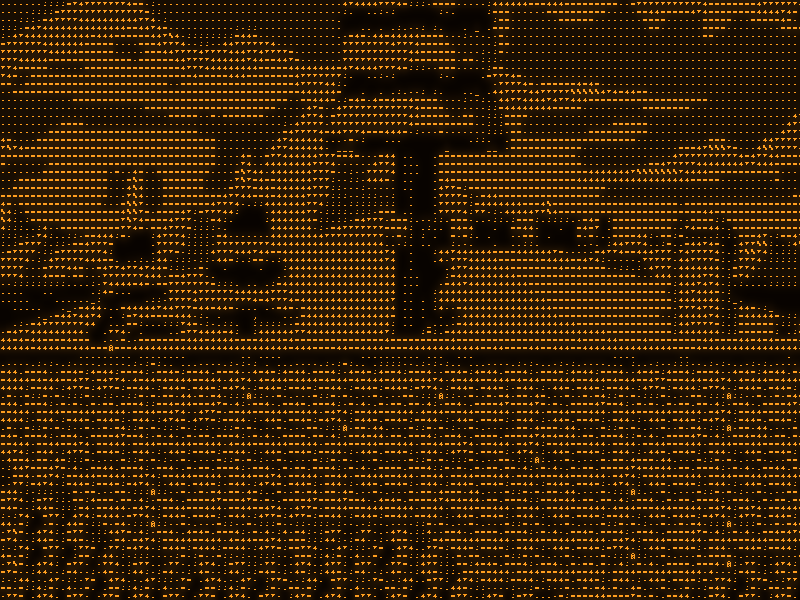
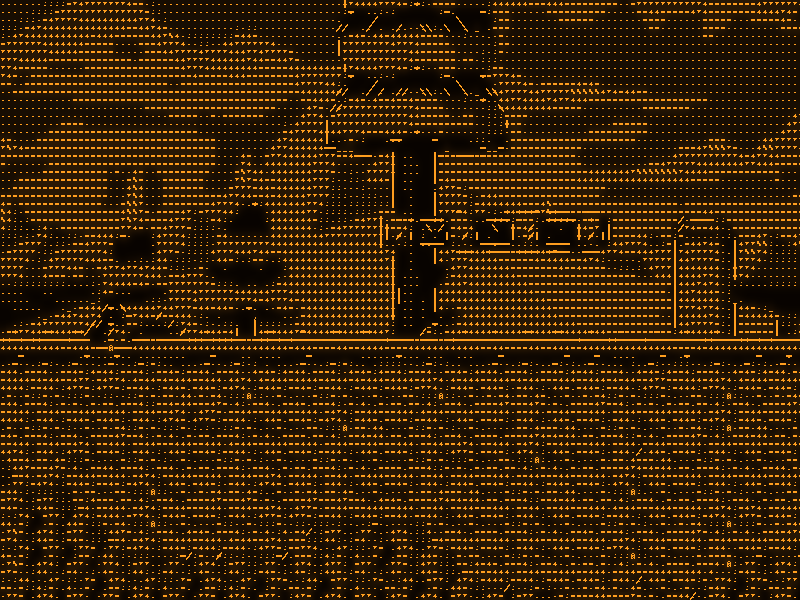
feat: detect contours in the displayed tone and with more sensitive DoG settings; remove the Blueprint style (detail at depth, step 5)

diff --git a/src/config/builtin_presets.cpp b/src/config/builtin_presets.cpp
@@ -1,6 +1,5 @@
 #include <glyphshift/config/presets.hpp>
 
-#include "blueprint.hpp"
 #include "chalk.hpp"
 #include "comic.hpp"
 #include "crt.hpp"
@@ -13,7 +12,7 @@
 namespace glyphshift {
 std::span<const BuiltinPreset> builtin_presets() noexcept {
     // Light-paper styles first, then dark-paper styles.
-    static constexpr std::array<BuiltinPreset, 9> styles{{
+    static constexpr std::array<BuiltinPreset, 8> styles{{
         {"art-comic",
             "Comic",
             "Bold scene-colored inks over a vivid watercolor wash.",
@@ -31,10 +30,6 @@ std::span<const BuiltinPreset> builtin_presets() noexcept {
             "Ink & Edges",
             "Crisp white letters and line art on black; made for dark games.",
             included::ink_edges},
-        {"art-blueprint",
-            "Blueprint",
-            "Cyan outlines on navy paper; no surface fill.",
-            included::blueprint},
         {"art-midnight",
             "Midnight",
             "Terminal ASCII in saturated scene colors on a near-black sky.",

diff --git a/tests/unit/presets_test.cpp b/tests/unit/presets_test.cpp
@@ -117,8 +117,9 @@ int main(int argc, char** argv) {
         PresetStore first(path, "game-a"), other(path, "game-b");
         std::string error;
         Settings actual;
-        check(builtin_presets().size() == 9 && !builtin_preset("not-included"),
-            "nine included styles with explicit lookup");
+        check(builtin_presets().size() == 8 && !builtin_preset("not-included") &&
+                  !builtin_preset("art-blueprint"),
+            "eight included styles with explicit lookup");
         for (const auto& preset : builtin_presets()) {
             check(first.load(preset.name, actual, error) && error.empty(),
                 "included styles load without installed files");

diff --git a/tests/smoke/editor_apps.py b/tests/smoke/editor_apps.py
@@ -150,7 +150,7 @@ def main():
                         control.click(100, 151 + (position-1)*23)
                     time.sleep(.35)
                     assert (profile_dir / 'active').read_text() == expected + '\n', (expected, (profile_dir / 'active').read_text())
-                names = ['art-comic', 'art-sepia', 'art-newsprint', 'art-chalk', 'art-ink-edges', 'art-blueprint',
+                names = ['art-comic', 'art-sepia', 'art-newsprint', 'art-chalk', 'art-ink-edges',
                          'art-midnight', 'art-crt', 'art-digital-rain']
                 seen = []
                 for index, name in enumerate(names, 1):

diff --git a/tools/record_demo.py b/tools/record_demo.py
@@ -31,7 +31,7 @@ parser.add_argument('--fps', type=int, default=12)
 args = parser.parse_args()
 presets = pathlib.Path(__file__).resolve().parents[1] / 'presets'
 # (seconds from the start, style config or None for the original)
-timeline = [(0, None), (3, 'art-comic'), (6.5, 'art-newsprint'), (10, 'art-blueprint')]
+timeline = [(0, None), (3, 'art-comic'), (6.5, 'art-newsprint'), (10, 'art-digital-rain')]
 length = 13.5
 
 x = X11()

diff --git a/tests/smoke/editor_apps_win32.py b/tests/smoke/editor_apps_win32.py
@@ -133,7 +133,7 @@ try:
     profile_dir = out / 'config/glyphshift/profiles' / ('editor-' + app)
     if args.presets:
         names = ['art-comic', 'art-sepia', 'art-newsprint', 'art-chalk', 'art-ink-edges',
-                 'art-blueprint', 'art-midnight', 'art-crt', 'art-digital-rain']
+                 'art-midnight', 'art-crt', 'art-digital-rain']
 
         def choose(position, expected):
             click(140, 95)

diff --git a/presets/README.md b/presets/README.md
@@ -15,12 +15,11 @@ dark-paper styles.
 | [art-newsprint.conf](art-newsprint.conf) | Black ink, warm white paper, letter shading and ASCII outline silhouettes. | 6×8 | [Image](../docs/presets/art-newsprint.png) |
 | [art-chalk.conf](art-chalk.conf) | Chalk drawing on a dark green board. | 6×8 | [Image](../docs/presets/art-chalk.png) |
 | [art-ink-edges.conf](art-ink-edges.conf) | Crisp white letters and line art on black. | 6×8 | [Image](../docs/presets/art-ink-edges.png) |
-| [art-blueprint.conf](art-blueprint.conf) | Cyan directional outlines on navy paper, with surface fill disabled. | 6×10 | [Image](../docs/presets/art-blueprint.png) |
 | [art-midnight.conf](art-midnight.conf) | Classic terminal ASCII in saturated scene colors on a near-black sky. | 6×8 | [Image](../docs/presets/art-midnight.png) |
 | [art-crt.conf](art-crt.conf) | Amber CRT phosphor letters with a warm glow. | 6×8 | [Image](../docs/presets/art-crt.png) |
 | [art-digital-rain.conf](art-digital-rain.conf) | Glowing green binary digits on black. | 6×8 | [Image](../docs/presets/art-digital-rain.png) |
 
-![Nine styles rendered from the SuperTux frame](../docs/presets/overview.png)
+![Eight styles rendered from the SuperTux frame](../docs/presets/overview.png)
 
 These are GPU previews of the same [captured frame](../docs/illustration-original.png),
 not live gameplay tests, rendered with **Local contrast** at its default of 0.5
@@ -31,7 +30,7 @@ synthetic stand-in for a dark game.
 Every style uses **Auto exposure**, which lifts dark scenes and tones bright
 ones down, small 6×8 cells for detail, and sensitive contours, so the same
 style works on a bright 2D game and a dark 3D one (they were tuned on SuperTux
-and on ELDEN RING). The dark-paper styles (Chalk, Ink & Edges, Blueprint,
+and on ELDEN RING). The dark-paper styles (Chalk, Ink & Edges,
 Midnight, CRT, Digital rain) suit dark 3D games best. The light-paper styles
 (Comic, Sepia, Newsprint) are at their best in bright games; in a dark scene
 most cells take ink and the drawing turns dense. For larger, easier-to-read
@@ -40,7 +39,7 @@ characters, raise the cell size in the editor.
 ## Choose directly in the overlay
 
 Restart the application through the rebuilt launcher to load the updated shared
-libraries. Press **Insert**, open **Preset**, and choose any of the nine names
+libraries. Press **Insert**, open **Preset**, and choose any of the eight names
 under **Included styles**. The running scene updates immediately; hover a name
 for a short description. Your own saved presets appear under **Saved presets**.
 No file copying or additional installation is required. Press **F10** for the

diff --git a/README.md b/README.md
@@ -11,7 +11,8 @@ it, and each game keeps its own style.
 ![SuperTux's title screen, then GlyphShift attached on top of it, switching between the Comic, Newsprint and Blueprint styles](docs/demo.webp)
 
 *Native SuperTux running on its own; the capture overlay is attached to its
-window and switches styles live (Comic, Newsprint, Blueprint). Recorded with
+window and switches styles live (Comic, Newsprint, and Blueprint, a style since
+removed). Recorded with
 `tools/record_demo.py`.*
 
 ## Why it is not another ASCII filter
@@ -28,7 +29,7 @@ text. GlyphShift takes neither route.
 | Attaching | Installed before the game starts. | A hotkey over a game that is already running; another press detaches it. |
 | Characters | A short built-in brightness ramp. | Real glyphs rasterized from any installed TTF/OTF font: ASCII, blocks, Braille or up to 256 Unicode characters of your choice, each kept at its typographic place. |
 | Which character goes where | By brightness. | By shape: each cell's 4×4 light/dark layout is matched against the font's glyphs, and real outlines become `/ \ \| _ -` strokes, so silhouettes survive. |
-| Color | Usually monochrome or the scene's color. | Art direction: scene-colored ink on dark or light paper, a watercolor wash, glow and ink bleed, nine ready styles. |
+| Color | Usually monochrome or the scene's color. | Art direction: scene-colored ink on dark or light paper, a watercolor wash, glow and ink bleed, eight ready styles. |
 | Motion | Glyphs flicker as noise and light change. | Temporal stability keeps a cell's glyph while it still fits; an optional grid anchored to the world travels with a scrolling camera. |
 | Editing | Configuration files or the injected menu. | An editor over the game (Insert), saved per game; F10 compares with the original. |
 
@@ -296,7 +297,7 @@ SuperTux through Proton, attached with the hotkey.
 ## Choose a starting style
 
 Try the [ready-to-use style collection](presets/README.md): Comic, Sepia,
-Newsprint, Chalk, Ink & Edges, Blueprint, Midnight, CRT and Digital rain. Each
+Newsprint, Chalk, Ink & Edges, Midnight, CRT and Digital rain. Each
 one redraws the whole scene in glyphs; the gallery compares them and explains
 how to switch them live without restarting.
 They are available directly under **Insert → Preset → Included styles**. Choose

diff --git a/docs/implementation/README.md b/docs/implementation/README.md
@@ -381,6 +381,34 @@ Bold); the table lists the new cell sizes. Verification: both presets built,
 oracle phases passed on Release. Not verified: the styles live in either game
 by the user, and other games.
 
+**Step 5, contours back, Blueprint removed (2026-10-22).** Trying the styles
+live, the user saw no contours at all, and found Blueprint very poor; at the
+user's request Blueprint is removed (config, embedding, gallery image and
+tile, the focused editor scripts' style lists, `record_demo.py`, now ending on
+Digital rain; the README's demo caption notes the recording still shows it).
+Measured on the user's frame with fill and shape matching off, Digital rain
+drew contours in 1 of 43,200 cells. Two causes:
+
+- Contours were detected in raw luminance, while a dark game reaches the ramp
+  only through a strong (automatic) exposure, so its outlines stayed below
+  the DoG and lattice thresholds. The contour scale is now the local gain
+  times exposure (automatic included) times contrast, never below 1: outlines
+  are detected in the displayed tone. 1 → 64 cells.
+- The vote share and DoG threshold taken from the user's copy (0.45 and 0.05)
+  were strict for 6×8 cells. A grid on both games (votes 0.45/0.25/0.15 ×
+  threshold 0.05/0.025/0.012, cells with contour ink on ELDEN RING of 43,200
+  and SuperTux of 10,000) and full-size crops chose votes 0.25 and threshold
+  0.025: 3,350 and 424 cells, clean outlines on SuperTux's tree, blocks and
+  ground and added outlines on ELDEN RING, where 0.2/0.015 turned noisy. All
+  eight styles use them.
+
+The presets test now expects eight included styles and no `art-blueprint`.
+Gallery and overview re-rendered (Blueprint's tile left empty). Verification:
+both presets built, 12/12 CTest tests each, format check, and the smoke's
+overlay, editor and oracle phases passed on Release. Not verified: the
+focused editor driver with `--presets` (real input; its style list changed),
+and the styles live.
+
 ### Windows distribution (requested 2026-10-22)
 
 Today only people who build from source can use GlyphShift. The plan, waiting

diff --git a/tests/README.md b/tests/README.md
@@ -177,7 +177,6 @@ cp presets/art-sepia.conf /tmp/glyphshift-style.conf
 cp presets/art-newsprint.conf /tmp/glyphshift-style.conf
 cp presets/art-chalk.conf /tmp/glyphshift-style.conf
 cp presets/art-ink-edges.conf /tmp/glyphshift-style.conf
-cp presets/art-blueprint.conf /tmp/glyphshift-style.conf
 cp presets/art-midnight.conf /tmp/glyphshift-style.conf
 cp presets/art-crt.conf /tmp/glyphshift-style.conf
 cp presets/art-digital-rain.conf /tmp/glyphshift-style.conf
